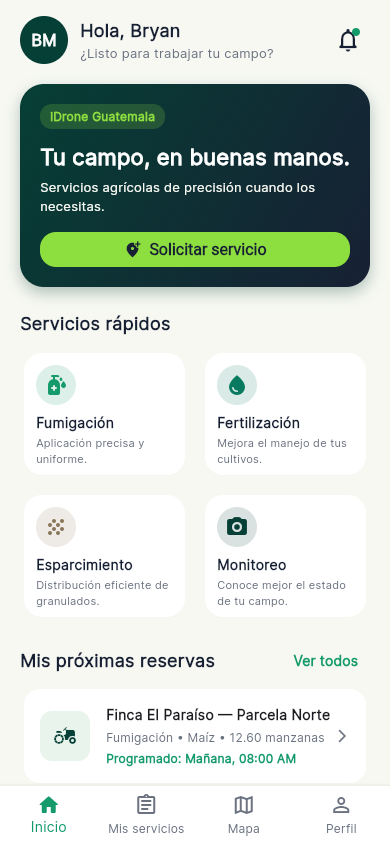
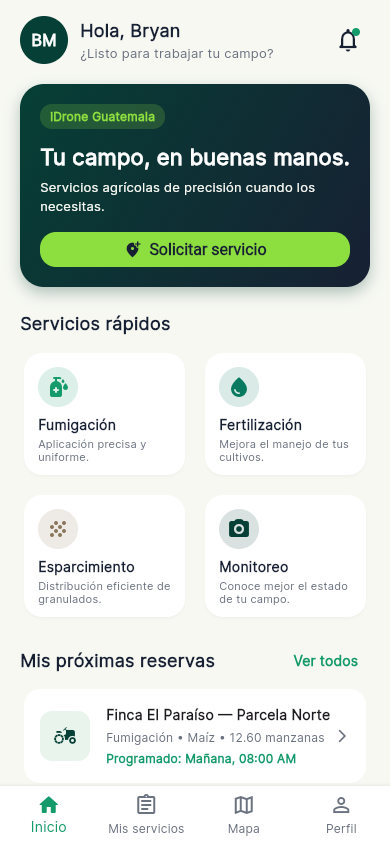
feat: complete functional production implementation for iDrone application

diff --git a/lib/features/home/presentation/home_screen.dart b/lib/features/home/presentation/home_screen.dart
@@ -238,13 +238,15 @@ class _QuickServiceCard extends StatelessWidget {
   @override
   Widget build(BuildContext context) {
     return Card(
-      elevation: 1,
+      color: AppColors.white,
+      elevation: 2,
+      shadowColor: AppColors.dark.withValues(alpha: 0.08),
       shape: RoundedRectangleBorder(borderRadius: BorderRadius.circular(18)),
       child: InkWell(
         onTap: onTap,
         borderRadius: BorderRadius.circular(18),
         child: Padding(
-          padding: const EdgeInsets.all(12.0),
+          padding: const EdgeInsets.all(14.0),
           child: Column(
             crossAxisAlignment: CrossAxisAlignment.start,
             mainAxisAlignment: MainAxisAlignment.center,
@@ -258,13 +260,24 @@ class _QuickServiceCard extends StatelessWidget {
                 child: Icon(icon, color: color, size: 24),
               ),
               const SizedBox(height: 8),
-              Text(title, style: const TextStyle(fontWeight: FontWeight.bold, fontSize: 14, color: AppColors.dark)),
+              Text(
+                title,
+                style: const TextStyle(
+                  fontWeight: FontWeight.bold,
+                  fontSize: 14,
+                  color: AppColors.dark,
+                ),
+              ),
               const SizedBox(height: 2),
               Text(
                 subtitle,
                 maxLines: 2,
                 overflow: TextOverflow.ellipsis,
-                style: const TextStyle(fontSize: 11, color: AppColors.muted),
+                style: const TextStyle(
+                  fontSize: 11,
+                  color: AppColors.muted,
+                  height: 1.2,
+                ),
               ),
             ],
           ),
